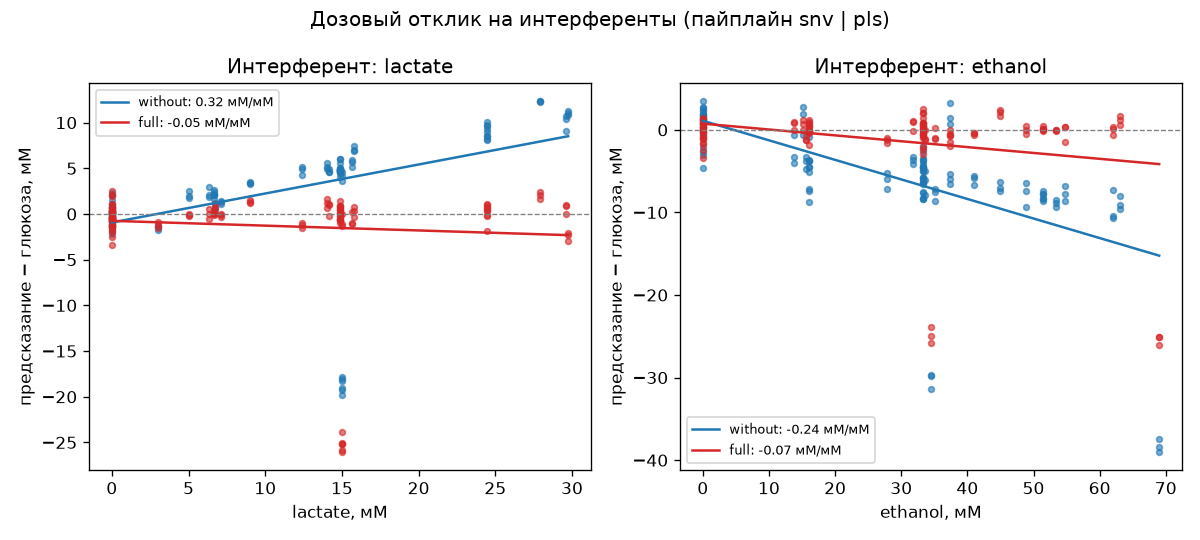
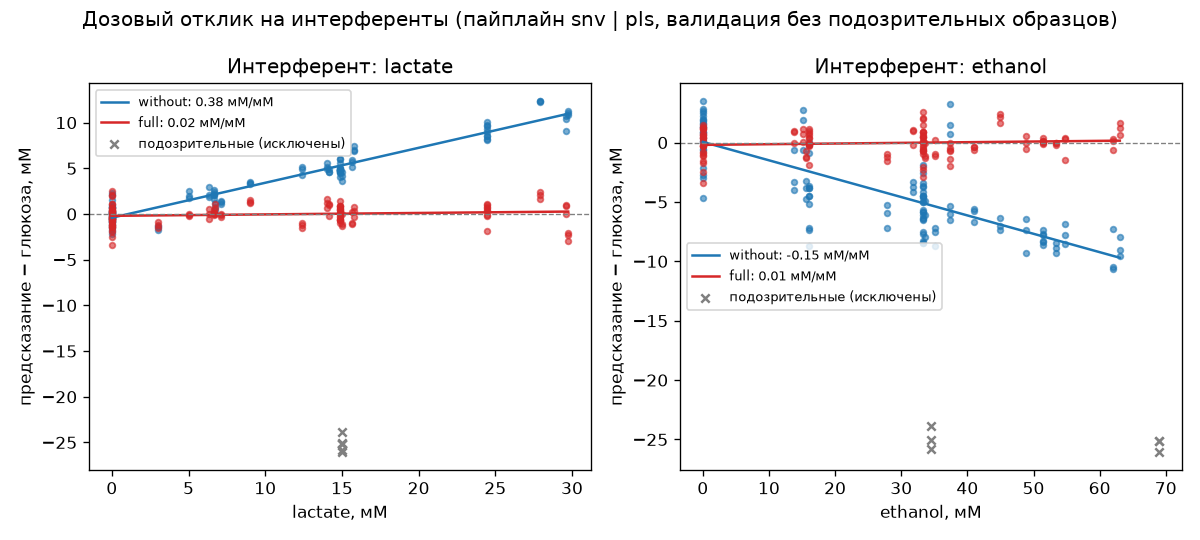
feat: пометка подозрительных образцов валидации NTNU, проверки в вариантах all/clean

diff --git a/scripts/run_ntnu_checks.py b/scripts/run_ntnu_checks.py
@@ -59,18 +59,27 @@ def _table(df: pd.DataFrame) -> str:
     return df.round(3).to_string(index=False)
 
 
+def _first_col(df: pd.DataFrame, col: str, value: str) -> pd.DataFrame:
+    """Добавляет колонку col со значением value первой колонкой."""
+    out = df.copy()
+    out[col] = value
+    return out[[col] + [c for c in df.columns if c != col]]
+
+
 def plot_learning_curve(lc: pd.DataFrame, pipes: list[tuple[str, str]]) -> pathlib.Path:
-    """Кривая обучения: RMSEP на валидации против числа обучающих составов, среднее по seed и полоса ±std."""
+    """Кривая обучения: RMSEP на валидации против числа обучающих составов для вариантов all/clean."""
     FIGURES.mkdir(parents=True, exist_ok=True)
     fig, ax = plt.subplots(figsize=(10, 5))
-    for pipe in pipes:
-        sub = lc[(lc["model"] == pipe[0]) & (lc["prep"] == pipe[1])]
-        agg = sub.groupby("n_groups")["rmse"].agg(["mean", "std"])
-        x = agg.index.to_numpy(float)
-        mean = agg["mean"].to_numpy()
-        std = np.nan_to_num(agg["std"].to_numpy(), nan=0.0)
-        ax.plot(x, mean, marker="o", label=pipe_label(pipe))
-        ax.fill_between(x, mean - std, mean + std, alpha=0.2)
+    styles = {"all": "--", "clean": "-"}
+    for val_set in ("all", "clean"):
+        for pipe in pipes:
+            sub = lc[(lc["val_set"] == val_set) & (lc["model"] == pipe[0]) & (lc["prep"] == pipe[1])]
+            agg = sub.groupby("n_groups")["rmse"].agg(["mean", "std"])
+            x = agg.index.to_numpy(float)
+            mean = agg["mean"].to_numpy()
+            std = np.nan_to_num(agg["std"].to_numpy(), nan=0.0)
+            ax.plot(x, mean, marker="o", ls=styles[val_set], label=f"{pipe_label(pipe)} ({val_set})")
+            ax.fill_between(x, mean - std, mean + std, alpha=0.2)
     ax.set_xlabel("число составов в обучении, шт")
     ax.set_ylabel("RMSEP на валидации, мМ")
     ax.set_title("Кривая обучения: качество от числа обучающих составов (NTNU)")
@@ -82,29 +91,44 @@ def plot_learning_curve(lc: pd.DataFrame, pipes: list[tuple[str, str]]) -> pathl
     return path
 
 
-def plot_interferents(cal, val, interferents: list[str], pipe: tuple[str, str], seed: int) -> pathlib.Path:
-    """Остаток предсказания против концентрации интерферента для обучения без него и на всей калибровке."""
+def plot_interferents(
+    cal, val, val_clean, interferents: list[str], pipe: tuple[str, str], seed: int
+) -> pathlib.Path:
+    """Остаток предсказания против концентрации интерферента (обучение без него и на всей калибровке).
+
+    Наклоны и точки строятся по чистой валидации; исключённые подозрительные образцы
+    показаны серыми крестиками только для варианта `full`.
+    """
     FIGURES.mkdir(parents=True, exist_ok=True)
     colors = {"without": "tab:blue", "full": "tab:red"}
+    suspect_mask = (~val.meta["suspect"].to_numpy(dtype=bool))
     fig, axes = plt.subplots(1, len(interferents), figsize=(5 * len(interferents), 4.5), squeeze=False)
     for ax, interf in zip(axes[0], interferents):
-        conc_val = val.meta[interf].to_numpy(dtype=float)
+        conc_val = val_clean.meta[interf].to_numpy(dtype=float)
         conc_cal = cal.meta[interf].to_numpy(dtype=float)
         for train_set in ("without", "full"):
             train = subset(cal, conc_cal < 0.1) if train_set == "without" else cal
-            pred = fit_predict(train, val.X, pipe, seed=seed)
-            res = pred - val.y
+            pred = fit_predict(train, val_clean.X, pipe, seed=seed)
+            res = pred - val_clean.y
             lr = linregress(conc_val, res)
             xs = np.array([conc_val.min(), conc_val.max()], dtype=float)
             ax.scatter(conc_val, res, s=12, color=colors[train_set], alpha=0.6)
             ax.plot(xs, lr.intercept + lr.slope * xs, color=colors[train_set], lw=1.5,
                     label=f"{train_set}: {lr.slope:.2f} мМ/мМ")
+            if train_set == "full":
+                pred_s = fit_predict(train, val.X, pipe, seed=seed)
+                res_s = pred_s - val.y
+                conc_s = val.meta[interf].to_numpy(dtype=float)[~suspect_mask]
+                res_sus = res_s[~suspect_mask]
+                ax.scatter(conc_s, res_sus, marker="x", color="gray", s=25,
+                           label="подозрительные (исключены)")
         ax.axhline(0.0, color="gray", lw=0.8, ls="--")
         ax.set_xlabel(f"{interf}, мМ")
         ax.set_ylabel("предсказание − глюкоза, мМ")
         ax.set_title(f"Интерферент: {interf}")
         ax.legend(fontsize=8)
-    fig.suptitle(f"Дозовый отклик на интерференты (пайплайн {pipe_label(pipe)})")
+    fig.suptitle(f"Дозовый отклик на интерференты (пайплайн {pipe_label(pipe)}, "
+                 f"валидация без подозрительных образцов)")
     path = FIGURES / "ntnu_interferents.png"
     fig.tight_layout()
     fig.savefig(path, dpi=120)
@@ -155,23 +179,35 @@ def main() -> None:
     t0 = _step("Загрузка данных (windows='work')")
     cal = load("calibration", windows="work")
     val = load("validation", windows="work")
+    val_clean = load("validation", windows="work", drop_suspect=True)
     print(cal.summary())
     print(val.summary())
+    print(val_clean.summary())
     _done(t0)
 
     with warnings.catch_warnings():
         warnings.simplefilter("ignore")
 
         t0 = _step("Внешняя валидация (обучение на калибровке, тест на валидации)")
-        ext, ext_pred = external_validation(cal, val, pipes, seed=a.seed)
+        ext_parts, ext_pred_parts = [], []
+        for val_set, cur_val in (("all", val), ("clean", val_clean)):
+            ext, ext_pred = external_validation(cal, cur_val, pipes, seed=a.seed)
+            ext_parts.append(_first_col(ext, "val_set", val_set))
+            ext_pred_parts.append(_first_col(ext_pred, "val_set", val_set))
+        ext = pd.concat(ext_parts, ignore_index=True)
+        ext_pred = pd.concat(ext_pred_parts, ignore_index=True)
         ext.to_csv(f"{out}_external.csv", index=False)
         ext_pred.to_csv(f"{out}_external_pred.csv", index=False)
         print(_table(ext))
         _done(t0)
 
         t0 = _step("Исключение интерферента (lactate, ethanol)")
-        interf = pd.concat([interferent_exclusion(cal, val, name, pipes, seed=a.seed)
-                            for name in ("lactate", "ethanol")], ignore_index=True)
+        interf_parts = []
+        for val_set, cur_val in (("all", val), ("clean", val_clean)):
+            for name in ("lactate", "ethanol"):
+                part = interferent_exclusion(cal, cur_val, name, pipes, seed=a.seed)
+                interf_parts.append(_first_col(part, "val_set", val_set))
+        interf = pd.concat(interf_parts, ignore_index=True)
         interf.to_csv(f"{out}_interferents.csv", index=False)
         print(_table(interf))
         _done(t0)
@@ -183,14 +219,18 @@ def main() -> None:
         _done(t0)
 
         t0 = _step(f"Кривая обучения (sizes={sizes}, seeds={seeds})")
-        lc = learning_curve(cal, val, pipes, sizes=sizes, seeds=seeds)
+        lc_parts = []
+        for val_set, cur_val in (("all", val), ("clean", val_clean)):
+            part = learning_curve(cal, cur_val, pipes, sizes=sizes, seeds=seeds)
+            lc_parts.append(_first_col(part, "val_set", val_set))
+        lc = pd.concat(lc_parts, ignore_index=True)
         lc.to_csv(f"{out}_learning.csv", index=False)
         print(_table(lc))
         _done(t0)
 
     t0 = _step("Графики")
     print(plot_learning_curve(lc, pipes))
-    print(plot_interferents(cal, val, ["lactate", "ethanol"], pipes[0], a.seed))
+    print(plot_interferents(cal, val, val_clean, ["lactate", "ethanol"], pipes[0], a.seed))
     print(plot_lodo(lodo, pipes))
     _done(t0)
 

diff --git a/src/spectra/loaders/ntnu.py b/src/spectra/loaders/ntnu.py
@@ -31,6 +31,9 @@ CONC_COLS = ["glucose", "lactate", "acetaminophen", "caffeine", "ethanol"]
 # рабочие окна: без видимой области, насыщения ~1940 нм и шумного края >2400 нм
 WORK_WINDOWS: list[tuple[float, float]] = [(1100.0, 1880.0), (2050.0, 2400.0)]
 
+# валидация: метка 50 мМ, все модели предсказывают ~25 мМ — вероятная ошибка приготовления/метки в источнике
+SUSPECT_COMPOSITIONS: tuple[str, ...] = ("50.00|15.00|0.15|0.10|34.50", "50.00|15.00|0.15|0.05|69.00")
+
 
 def _read_raw(split: str) -> tuple[pd.DataFrame, np.ndarray, np.ndarray]:
     """Читает сырой файл сплита. Возвращает (info, wl, X).
@@ -49,13 +52,14 @@ def _read_raw(split: str) -> tuple[pd.DataFrame, np.ndarray, np.ndarray]:
 
 
 def _add_structure(info: pd.DataFrame, split: str) -> pd.DataFrame:
-    """Возвращает НОВЫЙ DataFrame с колонками set, composition, block, repeat."""
+    """Возвращает НОВЫЙ DataFrame с колонками set, composition, block, repeat, suspect."""
     out = info.copy()
     out["set"] = split
     out["composition"] = out[CONC_COLS].apply(lambda row: "|".join(f"{v:.2f}" for v in row), axis=1)
     key = out[["composition", "cuvette", "day", "run"]].astype(str).agg("||".join, axis=1)
     out["block"] = ((key != key.shift()).cumsum() - 1).astype(int)
     out["repeat"] = out.groupby("block").cumcount().astype(int)
+    out["suspect"] = out["composition"].isin(SUSPECT_COMPOSITIONS)
     return out
 
 
@@ -79,6 +83,7 @@ def load(
     wl_min: float | None = None,
     wl_max: float | None = None,
     windows: list[tuple[float, float]] | str | None = None,
+    drop_suspect: bool = False,
 ) -> SpectraDataset:
     """Загружает датасет NTNU как SpectraDataset.
 
@@ -89,6 +94,8 @@ def load(
     включительно, канал попадает если попал хотя бы в одно окно) или None;
     применяются вместе с wl_min/wl_max (логическое И).
     y = glucose (мМ), groups = фактор по составу раствора (см. docstring модуля).
+    drop_suspect — исключить подозрительные составы (SUSPECT_COMPOSITIONS) и добавить
+    суффикс "_nosus" к имени, если что-то исключено.
     """
     if split == "all":
         parts: list[tuple[pd.DataFrame, np.ndarray, np.ndarray]] = []
@@ -119,7 +126,18 @@ def load(
         raise ValueError("После фильтра по длинам волн не осталось ни одного канала")
     wl, X = wl[mask], X[:, mask]
 
+    if drop_suspect:
+        keep = ~meta["suspect"].to_numpy()
+        n_dropped = int((~keep).sum())
+        if n_dropped:
+            meta = meta[keep].reset_index(drop=True)
+            X = X[keep]
+    else:
+        n_dropped = 0
+
     y = meta["glucose"].to_numpy(dtype=float)
     groups = pd.factorize(meta["composition"])[0]
     name = f"ntnu_{split}_win" if resolved_windows is not None else f"ntnu_{split}"
+    if n_dropped:
+        name += "_nosus"
     return SpectraDataset(X=X, wl=wl, y=y, groups=groups, meta=meta, name=name)

diff --git a/tests/test_ntnu_loader.py b/tests/test_ntnu_loader.py
@@ -84,3 +84,24 @@ def test_windows_bad():
         load("calibration", windows="bad")
     with pytest.raises(ValueError):
         load("calibration", windows=[(3000, 4000)])
+
+
+def test_suspect_flag():
+    ds = load("validation")
+    meta = ds.meta
+    assert meta["suspect"].sum() == 6
+    assert set(meta.loc[meta.suspect, "glucose"]) == {50.0}
+
+
+def test_drop_suspect_validation():
+    ds = load("validation", drop_suspect=True)
+    assert len(ds) == 114
+    assert "suspect" in ds.meta.columns and not ds.meta.suspect.any()
+    assert ds.name.endswith("_nosus")
+    assert ds.X.shape[0] == 114
+
+
+def test_drop_suspect_calibration():
+    ds = load("calibration", drop_suspect=True)
+    assert len(ds) == 273
+    assert not ds.name.endswith("_nosus")

diff --git a/docs/DATASETS.md b/docs/DATASETS.md
@@ -79,3 +79,14 @@
 - **Повторы vs блоки.** Разброс между блоками в 3–10 раз больше, чем между повторами: повторы не независимы → сплит только по группам обязателен.
 - **Дрейф.** День 2 — стабильная базовая линия; дни 3–5 — больший разброс и отдельные скачки (конец дня 4). Явного монотонного дрейфа нет.
 - **Выбросы** (невязка PCA-5, порог медиана + 5·MAD калибровки): 17 из 273 в калибровке, 2 из 120 в валидации (`ntnu_outliers.csv`). Среди них целые блоки (0, 56, 60 — все повторы) и холодные первые повторы. **Не удаляем**: это реальная вариативность (раствор/кювета/температура), а не сбой прибора; влияние исключения проверим отдельно.
+
+### ⚠ Подозрительные образцы в валидации (сообщить команде)
+Два валидационных состава размечены как **глюкоза 50 мМ**, но все модели, обученные на калибровке (PLS+SNV, PLS+SG1, ridge+SNV, SVR+SNV), стабильно предсказывают для них **≈ 25 мМ** во всех трёх повторах:
+
+| block | глюкоза, мМ | лактат | ацетаминофен | кофеин | этанол | кювета | предсказание PLS+SNV |
+|---|---|---|---|---|---|---|---|
+| 13 | 50 | 15 | 0,15 | 0,10 | 34,5 | 3 | ≈ 24–26 |
+| 17 | 50 | 15 | 0,15 | 0,05 | 69 | 2 | ≈ 24–25 |
+
+Это единственные образцы с 50 мМ в валидации; в калибровке 50 мМ встречаются часто, так что это не экстраполяция. Предсказание ровно в два раза меньше метки — похоже на ошибку приготовления/разведения или разметки в источнике. **Метки не правим** (правило 6); в загрузчике — флаг `suspect` и `load(..., drop_suspect=True)`.
+Влияние: RMSEP внешней валидации PLS+SNV — **5,73 мМ (все 120 спектров) против 1,09 мМ (без 6 спектров)**. Они же смещают оценки «дозового отклика» лактата и этанола. Все результаты на валидации показываем в двух вариантах.
